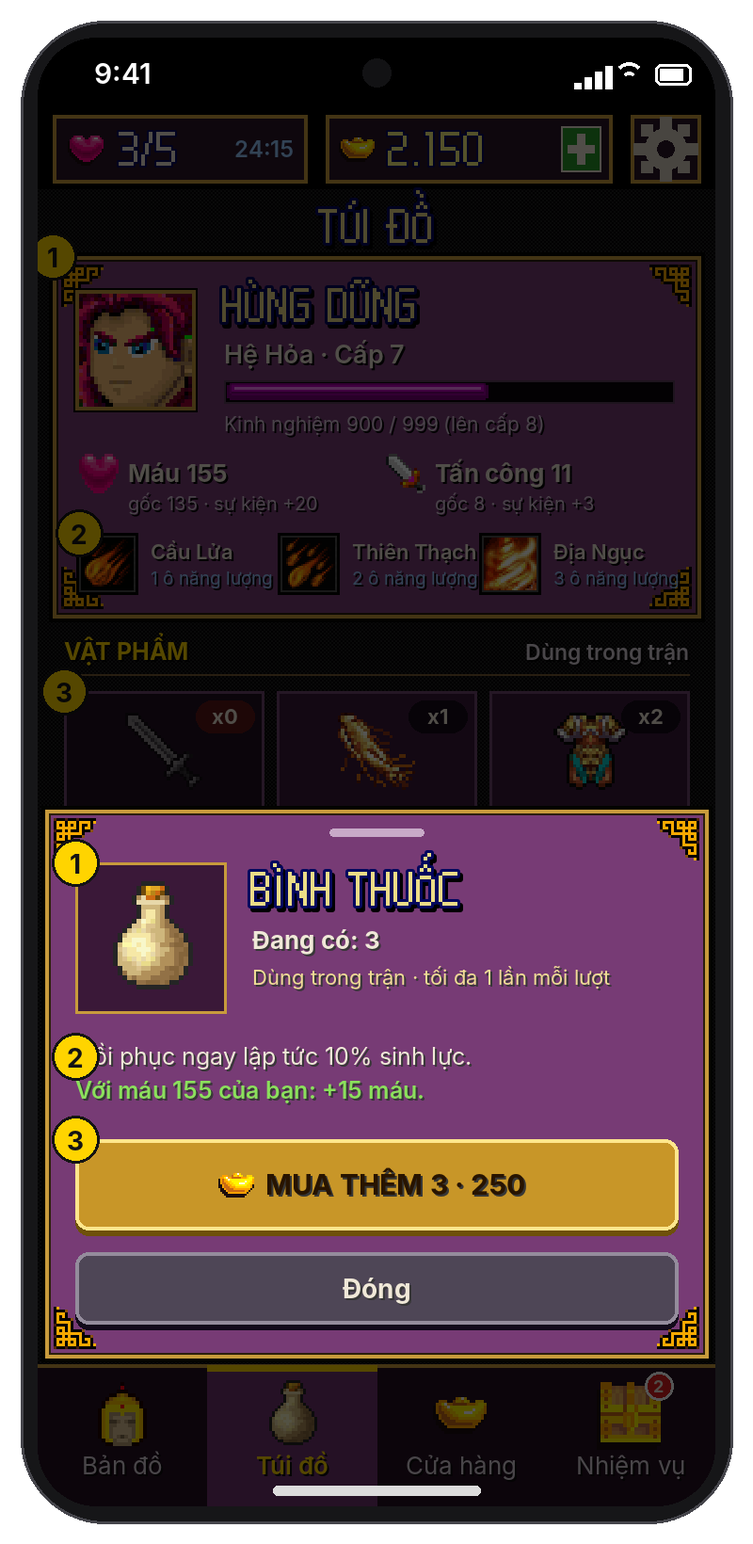
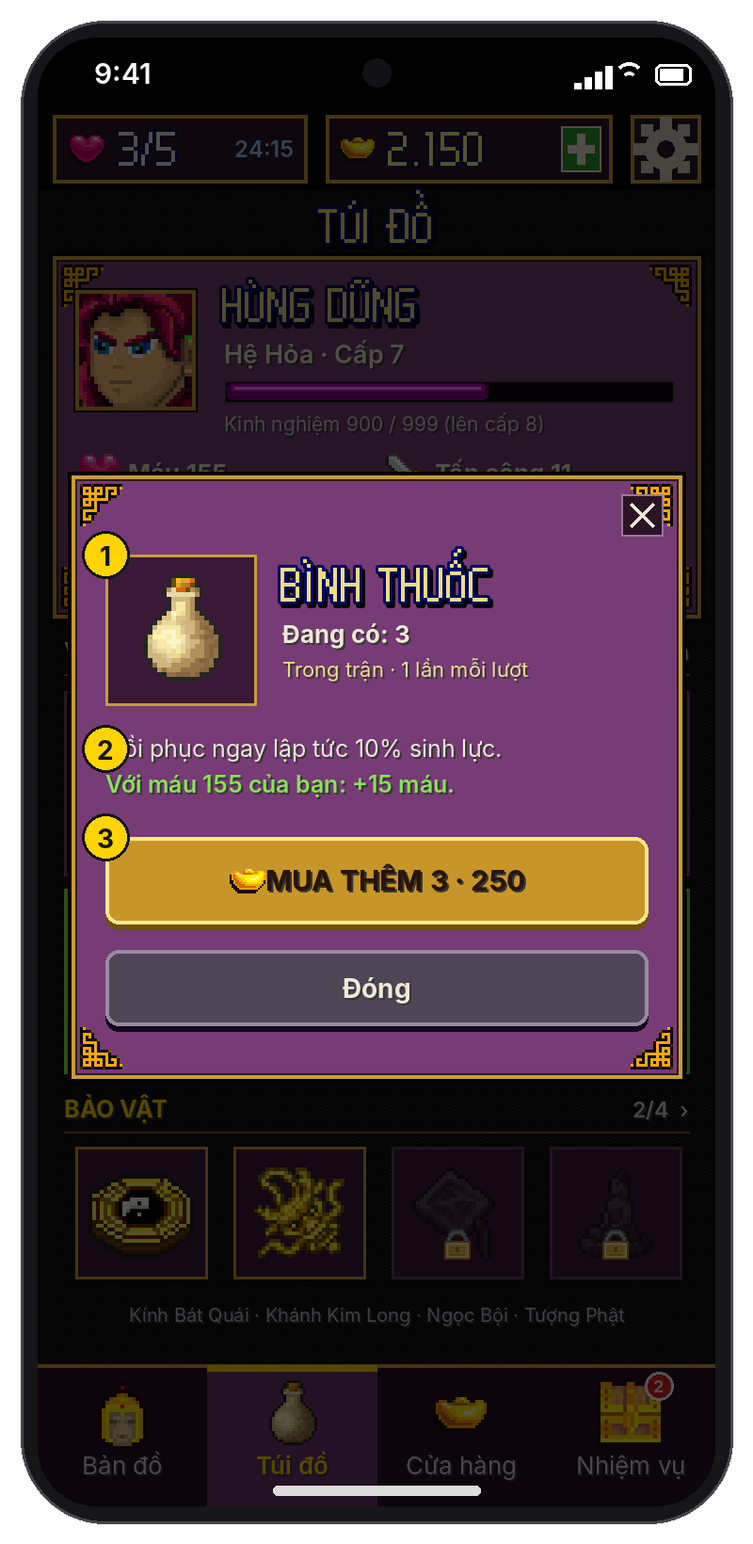
plan: bản đồ — tab Vàng, Ưu đãi; hộp chi tiết canh giữa; danh sách nhiệm vụ
- Cửa hàng: tab Vàng (rương miễn phí, 4 gói vàng), tab Ưu đãi (gói khởi đầu,
  VIP, khôi phục giao dịch), luồng mua bằng tiền thật và trạng thái nút.
- Hộp chi tiết vật phẩm, hộp Mua: chuyển thành hộp canh giữa theo chiều dọc.
- Nhiệm vụ: 3 tab con theo dữ liệu game (Chính tuyến 46 / Sự kiện 8 / Quân
  canh 14), chia 9 chương, trạng thái lấy từ aa.T, z[].f, S[], aq[];
  hộp chi tiết nhiệm vụ; mục Đấu trường.

Claude-Session: https://claude.ai/code/session_01DP7PE3Bcxc6a5H75rTjYAL

diff --git a/plan/thiet-ke-ban-do.md b/plan/thiet-ke-ban-do.md
@@ -42,14 +42,18 @@ Quy tắc:
 
 1. Cả 4 thẻ đều là **lớp vẽ đè lên màn bản đồ của game** (`aa` vẫn là màn hiện tại). Đổi thẻ không tạo màn mới trong game, không ghi save.
 2. Mỗi thẻ **giữ trạng thái** khi rời đi: vị trí cuộn, tab con, thẻ đang mở rộng. Ra Menu rồi vào lại thì về mặc định.
-3. **Nút Back Android:** đang có khung trượt thì đóng khung; đang ở thẻ khác thì về thẻ Bản đồ; đang ở Bản đồ thì mở hộp Tạm dừng.
+3. **Nút Back Android:** đang có hộp hoặc khung thì đóng nó; đang ở thẻ khác thì về thẻ Bản đồ; đang ở Bản đồ thì mở hộp Tạm dừng.
 4. **Đang đi trên đường mà đổi thẻ:** thẻ mới mở ngay; nhân vật đi hết đoạn đường đang đi rồi dừng (xoá phần đường còn lại, `portPathLen = 0`). Nếu giữa đoạn đó gặp quái chặn đường thì tự về thẻ Bản đồ và hiện hộp đối đầu.
 5. **Không đổi thẻ được** khi game đang mở hội thoại, hộp đối đầu, màn kết quả hay hộp thông báo. Lúc đó thanh điều hướng mờ 50%.
 6. **Chấm đỏ:**
    - Nhiệm vụ: hiện **số mục mới** chưa xem = nhiệm vụ chính mới (khi `T` tăng) + sự kiện mới mở + quân canh mới mở. Mở thẻ Nhiệm vụ thì xoá về 0.
    - Túi đồ: chấm không số khi có **hộp bảo vật chưa mở**.
    - Cửa hàng: chấm không số khi rương vàng miễn phí đã sẵn sàng (theo [kế hoạch kiếm tiền](README.md#3-các-điểm-đặt-quảng-cáo-thưởng)).
-7. **Hộp Tạm dừng** (nút ⚙): Tiếp tục · Âm thanh bật/tắt · Hướng dẫn bản đồ · Về menu. "Về menu" ghi save bản đồ (`aa.w()`) rồi thoát, thay cho hộp "Bạn có muốn trở về menu hay không?" của game.
+7. **Hai kiểu hộp:**
+   - **Hộp giữa màn** cho mọi chi tiết (vật phẩm, mua, nhiệm vụ, xác nhận): rộng 162 u (cách mép 9 u), **canh giữa theo chiều dọc** của vùng giữa thanh trên và thanh điều hướng, nền phía sau tối 65%, nút ✕ 11×11 u ở góc phải trên. Hộp cao hơn vùng giữa thì cuộn bên trong hộp.
+   - **Khung sát đáy** chỉ dùng cho khung thông tin nút trên bản đồ (mục 3.3), để không che bản đồ.
+   - Cả hai: chạm ra ngoài hoặc Back thì đóng; mở/đóng mờ dần 0.15 giây.
+8. **Hộp Tạm dừng** (nút ⚙): Tiếp tục · Âm thanh bật/tắt · Hướng dẫn bản đồ · Về menu. "Về menu" ghi save bản đồ (`aa.w()`) rồi thoát, thay cho hộp "Bạn có muốn trở về menu hay không?" của game.
 
 ## 3. Thẻ Bản đồ
 
@@ -148,6 +152,8 @@ Thay cho phím mềm "T.Tin" của bản gốc. Cuộn dọc nếu không đủ 
 
 <img src="ui/ban-do/16b_tui-do-chi-tiet.png" width="300" alt="Chi tiết vật phẩm">
 
+Hộp giữa màn (mục 2.7), cao 160 u.
+
 1. Hình 40 u, tên, "Đang có: {n}", giới hạn dùng (bảng dưới).
 2. Mô tả `h.d[t]`, và **một dòng tính sẵn cho tướng hiện tại** (bảng dưới, chữ xanh lá).
 3. Nút vàng **"MUA THÊM {gói} · {giá}"**: mua ngay 1 gói (như mục 5.2, không hỏi lại). Thiếu vàng thì nút xám "Thiếu {x} vàng" và chạm vào mở Cửa hàng tab Vàng.
@@ -170,13 +176,15 @@ Thay cho màn Cửa hàng cũ (`q`, lưới 6 ô và hộp "Có / Không"). Vàn
 1. **3 tab**: Vật phẩm · Vàng · Ưu đãi. Tab Vàng và Ưu đãi theo [kế hoạch kiếm tiền](README.md#76-cửa-hàng-tab-vàng) (gói vàng, rương miễn phí, gói khởi đầu, VIP). Chấm đỏ trên tab khi có thứ miễn phí.
 2. **Thẻ vật phẩm** 84×84 u, 2 cột: hình 35 u, "Có {n}" góc phải trên, tên, "{gói} cái", nút giá.
    - Nút giá vàng (200,150,40) khi đủ tiền; xám khi thiếu.
-   - Chạm **bất kỳ chỗ nào** trên thẻ: mở khung Mua (mục 5.1).
+   - Chạm **bất kỳ chỗ nào** trên thẻ: mở hộp Mua (mục 5.1).
 3. Giá hiện tại (`PortUi.PRICE`, gói `q.c`): Long Thần Kiếm 1.500, Nhân Sâm 1.500, Quỷ Diện Giáp 1.000, Bình Thuốc 250, Ngọc Ấn 500, mỗi gói 3 cái. Giá có thể chỉnh từ xa (Remote Config), nên UI luôn đọc từ `PortUi.price(t)`.
 4. Ô cuối **"Thiếu vàng?"** (xanh lá): chạm → tab Vàng.
 
-### 5.1 Khung Mua
+### 5.1 Hộp Mua
 
 <img src="ui/ban-do/17b_mua-vat-pham.png" width="300" alt="Mua vật phẩm">
+
+Hộp giữa màn (mục 2.7), cao 175 u.
 
 1. **Chọn số gói** bằng nút − / + (24×24 u). Mặc định 1, tối thiểu 1, tối đa = số gói mua được bằng vàng hiện có (ít nhất 1 để vẫn xem được giá) và không quá 10. Giữ nút + để tăng liên tục (mỗi 0.15 giây). Dòng dưới: "= {gói × 3} {tên}", "Còn lại sau khi mua: {vàng − tổng}".
 2. Nút vàng **"MUA · {tổng}"**. Thiếu vàng: nút xanh lá "+ VÀNG (thiếu {x})" → tab Vàng.
@@ -185,28 +193,140 @@ Thay cho màn Cửa hàng cũ (`q`, lưới 6 ô và hộp "Có / Không"). Vàn
 ### 5.2 Khi bấm mua
 
 1. Gọi `PortUi.buy(t, số gói)` (mục 8). Hàm kiểm tra đủ vàng cho **cả lượt mua** trước khi trừ; thiếu thì không mua gói nào.
-2. Thành công: số vàng trên thanh trên chạy giảm trong 0.4 giây; "Có {n}" nhảy số; hình vật phẩm bay vào ô Túi đồ trên thanh điều hướng; rung nhẹ. Khung Mua đóng.
+2. Thành công: số vàng trên thanh trên chạy giảm trong 0.4 giây; "Có {n}" nhảy số; hình vật phẩm bay vào ô Túi đồ trên thanh điều hướng; rung nhẹ. Hộp Mua đóng.
 3. Không còn hộp "Đã mua vật phẩm thành công" của game.
+
+### 5.3 Tab Vàng
+
+<img src="ui/ban-do/17c_cua-hang-vang.png" width="300" alt="Cửa hàng tab Vàng">
+
+1. **Rương miễn phí** (thẻ xanh lá 172×52 u): rương `/r/g` x6, "RƯƠNG MIỄN PHÍ", "+200 vàng · còn {n}/5 lượt hôm nay", "Mỗi lần mở cách nhau ít nhất 1 giờ".
+2. Nút xanh **▶ MỞ**: xem quảng cáo thưởng (`Host.showRewarded("gold_chest", …)`), xem hết thì +200 vàng vào ví chung, chạy số trên thanh trên.
+   - Đang chờ 1 giờ: nút xám "Mở lại sau {mm:ss}" (đếm ngược từng giây).
+   - Hết 5 lượt: nút xám "Hết lượt hôm nay", dòng 2 "Lượt mới lúc 0:00".
+   - VIP: nút vàng **MỞ NGAY**, không xem quảng cáo (vẫn 5 lượt, vẫn cách 1 giờ). Dòng nhỏ bên phải "hoặc VIP: mở ngay" chỉ hiện khi chưa VIP; chạm vào thì sang tab Ưu đãi.
+   - "Ngày" tính theo giờ máy; giờ máy lùi so với lần mở trước thì không cho mở (giống luật hồi mạng).
+3. **Gói vàng**: lưới 2×2, thẻ 84×85 u. Số thỏi vàng vẽ tăng dần theo gói (1–4 hình `/gold` x3), số vàng phông pixel, chữ "vàng", nút đỏ giá tiền thật.
+   - Nhãn góc trái trên: "+12%" (xanh), "PHỔ BIẾN" (đỏ cam), "LỜI NHẤT" (tím). Gói "Phổ biến" có viền vàng.
+4. Nút giá đỏ (176,28,28): chữ là **giá Google Play đã định dạng theo quốc gia** (`Host.price(mã)`), không ghi cứng. Chạm → `Host.purchase(mã, …)` (mục 5.5).
+5. Dòng cuối: "Vàng dùng chung cho mọi nhân vật · giá theo Google Play".
+
+| Mã sản phẩm | Vàng | Giá tham khảo (VN) | Nhãn |
+|---|---|---|---|
+| `gold_5k` | 5.000 | 22.000 ₫ | — |
+| `gold_12k5` | 12.500 | 49.000 ₫ | +12% |
+| `gold_26k` | 26.000 | 99.000 ₫ | PHỔ BIẾN |
+| `gold_55k` | 55.000 | 199.000 ₫ | LỜI NHẤT |
+
+### 5.4 Tab Ưu đãi
+
+<img src="ui/ban-do/17d_cua-hang-uu-dai.png" width="300" alt="Cửa hàng tab Ưu đãi">
+
+1. **Gói khởi đầu** (`starter_pack`, khung đỏ sẫm (110,36,40), cao 117 u), nhãn "CHỈ 1 LẦN".
+2. 4 ô nội dung: 3.000 vàng · Long Thần Kiếm x3 · Nhân Sâm x3 · đầy mạng. Dòng "Trị giá 6.000 vàng và đầy mạng" (3.000 + 1.500 + 1.500 theo giá Cửa hàng).
+3. Nút đỏ giá. Mua xong: nút xanh **ĐÃ MUA** (không bấm được), thẻ chuyển xuống dưới VIP. Đầy mạng = đặt mạng về tối đa (5, VIP 6), không quá tối đa.
+4. **VIP trọn đời** (`vip`, khung nâu vàng (70,50,20)): hình Ngọc Ấn, "Mua 1 lần, dùng mãi, cho mọi nhân vật".
+5. 4 quyền lợi có dấu ✓:
+   - nhận thưởng quảng cáo ngay, không phải xem (vẫn giữ giới hạn lượt);
+   - ô vật phẩm thứ 4 khi chuẩn bị xuất trận;
+   - tối đa 6 mạng (thường 5);
+   - tạo nhân vật mới không cần xem quảng cáo (theo [nhiều nhân vật](thiet-ke-nhieu-nhan-vat.md), luật L7).
+   - Đã có VIP: nút vàng **ĐÃ KÍCH HOẠT**.
+6. **Khôi phục giao dịch** (chữ xanh gạch chân): gọi khôi phục của Unity IAP; xong thì thông báo "Đã khôi phục: VIP, Gói khởi đầu" hoặc "Không có giao dịch nào để khôi phục".
+- Chấm đỏ trên tab Ưu đãi: khi gói khởi đầu **chưa mua** và người chơi **chưa mở tab này lần nào** kể từ khi gói xuất hiện.
+- Gói khởi đầu tự bật **1 lần** (hộp giữa màn có cùng nội dung) sau trận hướng dẫn hoặc lần đầu hết mạng; sau đó chỉ còn ở tab này.
+
+### 5.5 Mua bằng tiền thật
+
+<img src="ui/ban-do/17e_trang-thai-mua.png" width="400" alt="Trạng thái nút mua">
+
+1. Chạm nút giá → nút chuyển **"Đang xử lý…"**, khoá mọi nút mua trong Cửa hàng → mở màn thanh toán của Google Play.
+2. **Thành công:** cộng vàng / vật phẩm / mạng / VIP **sau khi** Google Play xác nhận, ghi PlayerPrefs ngay, rồi mới báo hoàn tất giao dịch (consume cho gói vàng, acknowledge cho gói 1 lần và VIP). Hiện hộp giữa màn "Đã nhận {nội dung}" và hiệu ứng vàng bay về thanh trên.
+3. **Người chơi huỷ:** nút về như cũ, không thông báo.
+4. **Lỗi:** nút về như cũ, thông báo ngắn "Chưa mua được. Thử lại sau." Không trừ, không cộng gì.
+5. **Đang chờ** (thanh toán trả sau của Google Play): nút "Chờ thanh toán"; khi Google Play báo xong (kể cả lần mở game sau) thì cộng như bước 2.
+6. **Chưa có giá** (không mạng, chưa tải xong danh sách sản phẩm): nút xám "— ₫", không bấm được.
+- Mọi phần thưởng mua bằng tiền thật đi vào **ví chung** và trạng thái chung (VIP, gói khởi đầu), không theo nhân vật.
 
 ## 6. Thẻ Nhiệm vụ
 
-<img src="ui/ban-do/18_nhiem-vu.png" width="300" alt="Thẻ Nhiệm vụ">
+Thẻ có 3 tab con, đúng 3 loại việc mà code của game có: **Chính tuyến** (46 nhiệm vụ đi lần lượt, `dd.l`, tiến độ `aa.T`), **Sự kiện** (8 việc phụ, `dd.n`) và **Quân canh** (14 trạm lính, `dd.p`). Mỗi tab con ghi "{đã xong}/{tổng đang thấy}". Mở thẻ lần đầu là tab Chính tuyến.
 
-1. **Tiến độ**: thanh `/m/lv` rộng 133 u, "{T}/46 đã xong".
-2. **Nhiệm vụ chính** (thẻ đỏ sẫm (98,40,60), cao 96 u):
-   - dòng nhỏ "❗ NHIỆM VỤ CHÍNH · {T+1}";
-   - chân dung đối thủ (trận đánh) hoặc người nói đầu tiên trong `ea.b[T]` (hội thoại); tiêu đề lớn (phụ lục A);
-   - dòng phụ: trận đánh "Đánh bại {đối thủ} · cấp {n} · cách {k} đường"; hội thoại "Gặp {người nói} tại {nơi} · cách {k} đường";
-   - các nhãn thưởng: "+{KN} KN" (tím), "+{vàng} vàng" (vàng), "+1 hộp bảo vật" (xanh ngọc). Không có thưởng thì bỏ nhãn.
-3. **ĐI TỚI**: về thẻ Bản đồ, camera trượt tới nút, rồi bắt đầu đi luôn (như bấm ĐI TỚI trong khung thông tin). Đang đứng ở đó thì là **BẮT ĐẦU**.
-4. **Hội thoại**: xem lại đoạn thoại mở đầu `ea.b[T]` bằng màn [Hội thoại cốt truyện](thiet-ke-giao-dien.md#4-hội-thoại-cốt-truyện), chỉ để đọc, không đổi tiến độ.
-5. **Sự kiện**: danh sách sự kiện ở **nút đã mở** mà chưa làm (`z[n].f ≥ 0`). Mỗi dòng 166×24 u: dấu cam, chân dung x2, "{đối thủ} · {nơi}", "cấp {n} · {thưởng}", "Đi tới ›". Sắp xếp theo số chặng đường, gần trước. Chạm cả dòng = Đi tới.
-6. **Quân canh**: như Sự kiện, cho các nút đã mở còn lính canh (`S[n] ≥ 0`). Điểm không tên ghi "trạm gác gần {thành gần nhất}". Lính cấp theo người chơi ghi "cấp {cấp của bạn}".
-7. **Đã hoàn thành ({T})**: thu gọn mặc định; mở ra là danh sách nhiệm vụ 1…T (mới nhất trên cùng), mỗi dòng có dấu ✓, tiêu đề, nơi và nút "Hội thoại" để đọc lại (`ea.b`, rồi `ea.c`).
+### 6.1 Trạng thái lấy từ code
 
-- Mục nào rỗng thì ẩn cả tiêu đề mục.
-- **Mục mới** (từ lần mở thẻ trước) có nhãn "MỚI" màu đỏ ở đầu dòng trong lần mở này.
-- Đã xong cả 46: thẻ nhiệm vụ chính thành "Đã thống nhất giang sơn!" kèm nút "Xem lại kết thúc".
+| Loại | Đã xong | Đang làm / còn làm được | Chưa mở |
+|---|---|---|---|
+| Nhiệm vụ chính `q` | `q < T` | `q == T` (chỉ 1) | `q > T` |
+| Sự kiện `e` ở nút `n = dd.n[e][1]` | `z[n].d` và `z[n].f == −1` | `z[n].d` và `z[n].f == e` | `!z[n].d` |
+| Quân canh ở nút `n` | `z[n].d` và `S[n] == −1` | `z[n].d` và `S[n] ≥ 0` | `!z[n].d` |
+| Mức Đấu trường `i` | — | `aq[i] == true` | `aq[i] == false` |
+
+### 6.2 Chương
+
+46 nhiệm vụ chia thành 9 chương theo mạch truyện (tên chương là **chuỗi mới**, bảng `PortUi.QUEST_CHAPTER`):
+
+| Chương | Tên | Nhiệm vụ |
+|---|---|---|
+| 1 | Khởi binh ở Hoa Lư | 1–6 |
+| 2 | Bình Kiều | 7–9 |
+| 3 | Cứu Đằng Châu, diệt Tế Giang | 10–16 |
+| 4 | Đỗ Động Giang | 17–21 |
+| 5 | Tây Phù Liệt | 22–25 |
+| 6 | Siêu Loại và Tiên Du | 26–30 |
+| 7 | Cổ Loa và Tam Đái | 31–36 |
+| 8 | Kỳ Bố và Hồi Hồ | 37–42 |
+| 9 | Thống nhất giang sơn | 43–46 |
+
+### 6.3 Tab Chính tuyến
+
+<img src="ui/ban-do/18_nhiem-vu.png" width="300" alt="Nhiệm vụ: Chính tuyến">
+
+1. **3 tab con**, mỗi tab 56×16 u: "CHÍNH TUYẾN {T}/46", "SỰ KIỆN {xong}/{đã mở}", "QUÂN CANH {xong}/{đã mở}". Tab nào có mục mới thì có chấm đỏ.
+2. **Thanh tiến độ** (`/m/lv`, 133 u): `T / 46`, bên phải "Chương {c}/9".
+3. **Dòng chương đã xong**: dấu ✓ xanh, "Chương {c} · {tên}", "{n}/{n}", mũi tên mở rộng. Mặc định **thu gọn**.
+4. **Dòng chương đang làm**: vòng đỏ có số chương, nền sáng hơn, "{xong}/{tổng}". Mặc định **mở rộng**.
+5. **Dòng nhiệm vụ đã xong** (cao 21 u): ✓, "{số}. {tiêu đề}" (phụ lục A), dòng phụ "{Hội thoại|Đánh} · {nơi}" (+ " · {đối thủ}" nếu đánh), biểu tượng sách bên phải. Chạm cả dòng → hộp chi tiết (mục 6.4).
+6. **Thẻ nhiệm vụ đang làm** (cao 63 u, viền đỏ cam (255,120,100) 1.25 u): dấu đỏ, "{số}. ĐANG LÀM"; chân dung đối thủ hoặc người nói đầu tiên của `ea.b[T]`; tiêu đề phông pixel; dòng phụ "Đánh bại {đối thủ} · cấp {n} · {nơi}" hoặc "Gặp {người nói} · {nơi}"; nhãn thưởng "+{KN} KN" (tím), "+{vàng} vàng" (vàng), "+1 hộp bảo vật" (xanh ngọc), nhãn nào bằng 0 thì bỏ. Chạm thẻ (ngoài nút) → hộp chi tiết.
+7. **ĐI TỚI** (đỏ, góc phải trên của thẻ): về thẻ Bản đồ, camera trượt tới nút, bắt đầu đi luôn. Đang đứng ở đó thì là **BẮT ĐẦU**.
+8. **Nhiệm vụ chưa mở**: chỉ hiện **2 nhiệm vụ kế tiếp** trong chương đang làm, dạng khoá: "{số}. ???", "Mở khi xong nhiệm vụ {số − 1}". Còn nữa thì thêm dòng chữ nhỏ "+ {k} nhiệm vụ nữa trong chương". Chương sau: chỉ dòng chương khoá "Chương {c} · ???", "0/{tổng}", không mở rộng được.
+
+- Mở thẻ: tự cuộn sao cho thẻ đang làm nằm ở khoảng 1/3 trên của vùng danh sách.
+- Mở/thu một chương: chạm dòng chương, trượt 0.2 giây. Trạng thái mở/thu giữ tới khi ra Menu.
+- Xong cả 46: thẻ đang làm thay bằng thẻ vàng "Đã thống nhất giang sơn!" và nút "Xem lại kết thúc" (cốt truyện kết `h.i`).
+- Nhiệm vụ mới (từ lần mở thẻ trước) có nhãn đỏ "MỚI" trên thẻ đang làm trong lần mở này.
+
+### 6.4 Hộp chi tiết nhiệm vụ
+
+<img src="ui/ban-do/18c_chi-tiet-nhiem-vu.png" width="300" alt="Chi tiết nhiệm vụ">
+
+Hộp giữa màn (mục 2.7), cao 190 u.
+
+1. Dòng nhỏ "Chương {c} · nhiệm vụ {số}"; chân dung x4; tiêu đề phông pixel (xuống dòng nếu dài); trạng thái: ✓ "Đã hoàn thành" (xanh) hoặc ❗ "Đang làm" (đỏ).
+2. Bảng thông tin, mỗi dòng 13 u, nhãn trái / giá trị phải:
+   - Loại: Hội thoại / Đánh / Trận hướng dẫn;
+   - Nơi: tên thành, hoặc "trạm gác gần {thành}";
+   - Đối thủ: "{tên} · cấp {n}" (chỉ trận đánh);
+   - "Đã nhận" (đã xong) hoặc "Thưởng" (đang làm): KN, vàng, hộp bảo vật;
+   - Mở thêm: các thành mở ra khi xong (`dd.m[q]`, chỉ tên thành; với nhiệm vụ đang làm ghi "???" để không lộ trước).
+3. **Đọc lại hội thoại** (tím): mở màn Hội thoại cốt truyện ở chế độ chỉ đọc. Đã xong: phát `ea.b[q]` rồi `ea.c[q]`. Đang làm: chỉ `ea.b[q]`. Nhiệm vụ đang làm có thêm nút đỏ **ĐI TỚI** ở trên nút này.
+- "Đóng", ✕, chạm ra ngoài, Back: đóng.
+
+### 6.5 Tab Sự kiện
+
+<img src="ui/ban-do/18b_nhiem-vu-su-kien.png" width="300" alt="Nhiệm vụ: Sự kiện">
+
+1. **Sự kiện còn làm được** (viền cam): dấu cam, chân dung x2, "{đối thủ} · {nơi}", "cấp {n} · {thưởng}" ("gặp gỡ" nếu là hội thoại), "Đi tới ›". Xếp theo số đoạn đường từ chỗ đứng, gần trước. Chạm cả dòng = Đi tới.
+2. **Đã xong** (mờ): ✓, chân dung, "Đã nhận {thưởng}".
+3. **Chưa mở**: khoá, "???", "Ở vùng chưa mở trên bản đồ". Đủ 8 dòng luôn hiện, để người chơi biết còn bao nhiêu việc phụ.
+4. **Đấu trường · Tam Điệp** "{mở}/5 mức": 5 ô 32×24 u. Mở: nền xanh, "Mức {i}", "mở sẵn" / điều kiện đã đạt. Chưa mở: xám, ghi điều kiện: mức 3 "thắng Lê Hoàn", mức 4 "thắng Nguyễn Ninh", mức 5 "đạt cấp 30". Chạm ô đã mở → về Bản đồ, đi tới Tam Điệp. Cả mục ẩn khi chưa xong nhiệm vụ 5 (Tam Điệp chưa mở).
+
+### 6.6 Tab Quân canh
+
+Cùng kiểu dòng với tab Sự kiện, dấu vàng:
+
+- Còn: "{tên lính} · {nơi}" (điểm không tên: "trạm gác gần {thành gần nhất}"), "cấp {n}" (lính cấp theo người chơi ghi "cấp {cấp của bạn}"), "Đi tới ›".
+- Đã dẹp: ✓ mờ, "Đã dẹp".
+- Chưa mở: chỉ ghi một dòng tổng "Còn {k} trạm gác ở vùng chưa mở" (không liệt kê từng dòng khoá như Sự kiện, vì quân canh không có thưởng riêng).
 
 ## 7. Lưu dữ liệu mới
 
@@ -216,6 +336,8 @@ Theo nhân vật (đặt trong store của ô, ví dụ bản ghi mới 16b #120
 |---|---|
 | `seenT` | `T` lúc mở thẻ Nhiệm vụ lần cuối |
 | `seenEvents`, `seenGuards` | Danh sách nút sự kiện / quân canh đã thấy |
+| `starterSeen` | Đã mở tab Ưu đãi từ khi gói khởi đầu xuất hiện (chung, không theo nhân vật) |
+| `chestCount`, `chestDay`, `chestLast` | Rương miễn phí: số lượt hôm nay, ngày, lần mở cuối (chung) |
 | `mapTutorialDone` | Đã xem hướng dẫn bản đồ 3 bước |
 
 Không lưu trạng thái cuộn, tab con hay vị trí camera.
@@ -239,6 +361,9 @@ Unity chỉ đọc qua các hàm này và gửi hành động qua `PortUi.reques
 | `guardList()`, `guardEnemy(n)`, `guardLevel(n)` | Quân canh còn lại ở nút đã mở |
 | `heroExp()`, `heroExpFor(level)`, `heroBonusHp()`, `heroBonusAttack()` | 16b #103, `dd.u`, `dd.e.g`, `dd.e.h` |
 | `relicOwned(i)`, `relicBoxes()` | Bảo vật đã có, số hộp chưa mở |
+| `eventState(e)`, `guardState(n)` | 0 chưa mở, 1 còn làm được, 2 đã xong (mục 6.1) |
+| `arenaLevelOpen(i)` | `aa.aq[i]` |
+| `QUEST_TITLE[q]`, `QUEST_CHAPTER[c]`, `questChapter(q)` | Chuỗi mới (phụ lục A, mục 6.2) |
 
 **Hành động** (thêm vào hằng số đầu `PortUi`):
 
@@ -250,7 +375,9 @@ Unity chỉ đọc qua các hàm này và gửi hành động qua `PortUi.reques
 | `MAP_MENU` | — | Ghi save bản đồ rồi về Menu |
 | `SHOP_BUY` | `t * 100 + số gói` | Mua; trả kết quả qua `PortUi.lastBuyOk()` |
 
-Tiêu đề 46 nhiệm vụ (phụ lục A) là **chuỗi mới**, đặt trong bảng `PortUi.QUEST_TITLE[46]`.
+Tiêu đề 46 nhiệm vụ (phụ lục A) và tên 9 chương là **chuỗi mới**, đặt trong `PortUi`.
+
+Tab Vàng và Ưu đãi **không đi qua game**: Unity gọi thẳng `Host.showRewarded`, `Host.purchase`, `Host.price`, `Host.isVip` theo [kế hoạch kiếm tiền](README.md#9-hướng-triển-khai-kỹ-thuật-để-dành-khi-bắt-đầu-code), rồi cộng vàng / vật phẩm qua `bg.a(i, n, 6)` trên ví chung.
 
 ## 9. Kiểm thử chấp nhận
 
@@ -265,7 +392,13 @@ Tiêu đề 46 nhiệm vụ (phụ lục A) là **chuỗi mới**, đặt trong 
 9. Nhiệm vụ: danh sách Sự kiện, Quân canh khớp các dấu cam, vàng trên bản đồ; làm xong một sự kiện thì mất khỏi cả hai nơi.
 10. Chấm đỏ Nhiệm vụ: xong một nhiệm vụ chính mở thêm 2 thành có sự kiện → chấm "3" (1 nhiệm vụ mới + 2 sự kiện); mở thẻ → mất chấm, các dòng mới có nhãn "MỚI".
 11. Back Android theo đúng quy tắc mục 2.3 ở mọi thẻ.
-12. Máy 16:9 (cao 320 u): Túi đồ cuộn được; khung thông tin bản đồ vẫn không che nhân vật (camera đẩy nhân vật lên trên khung).
+12. Hộp chi tiết vật phẩm, hộp Mua và hộp chi tiết nhiệm vụ luôn nằm giữa vùng giữa (cách đều thanh trên và thanh điều hướng) trên máy 16:9, 19.5:9 và 20:9.
+13. Tab Vàng: mở rương → xem hết quảng cáo → +200 vàng; ngay sau đó nút thành "Mở lại sau 59:59"; mở đủ 5 lần thì "Hết lượt hôm nay".
+14. Mua gói vàng: tắt mạng giữa lúc thanh toán → mở lại game có mạng → vàng được cộng đúng 1 lần.
+15. Gói khởi đầu mua xong không mua lại được; cài lại game rồi "Khôi phục giao dịch" → VIP về lại, gói khởi đầu hiện "ĐÃ MUA" (vàng đã cộng trước đó không cộng lại).
+16. Tab Chính tuyến ở nhiệm vụ 13: chương 1, 2 thu gọn có ✓; chương 3 mở với 10–12 đã xong, 13 đang làm, 14–15 khoá; chương 4 trở đi khoá.
+17. Tab Sự kiện: số dòng còn / xong / khoá khớp bảng 6.1 với save đang có; Đấu trường hiện đúng mức đã mở.
+18. Máy 16:9 (cao 320 u): Túi đồ cuộn được; khung thông tin bản đồ vẫn không che nhân vật (camera đẩy nhân vật lên trên khung).
 
 ## 10. Cần quyết định
 
@@ -275,6 +408,9 @@ Tiêu đề 46 nhiệm vụ (phụ lục A) là **chuỗi mới**, đặt trong 
 | B2 | Đổi thẻ khi đang đi: dừng hay đi tiếp ngầm? | Dừng ở cuối đoạn đang đi. |
 | B3 | Tiêu đề nhiệm vụ: dùng 46 tiêu đề viết tay (phụ lục A) hay tự sinh "Đánh bại X / Gặp X"? | Viết tay; dòng phụ vẫn tự sinh. |
 | B4 | Mua tối đa bao nhiêu gói một lần? | 10. |
+| B5 | Nhiệm vụ chưa mở: ẩn tiêu đề ("???") hay hiện trước? | Ẩn, chỉ hiện 2 nhiệm vụ kế tiếp dạng khoá. |
+| B6 | Tên 9 chương (mục 6.2) | Như bảng, chờ duyệt. |
+| B7 | Rương miễn phí khi lỗi quảng cáo | Không cho mở, giống mọi điểm quảng cáo khác. |
 
 ---
 
